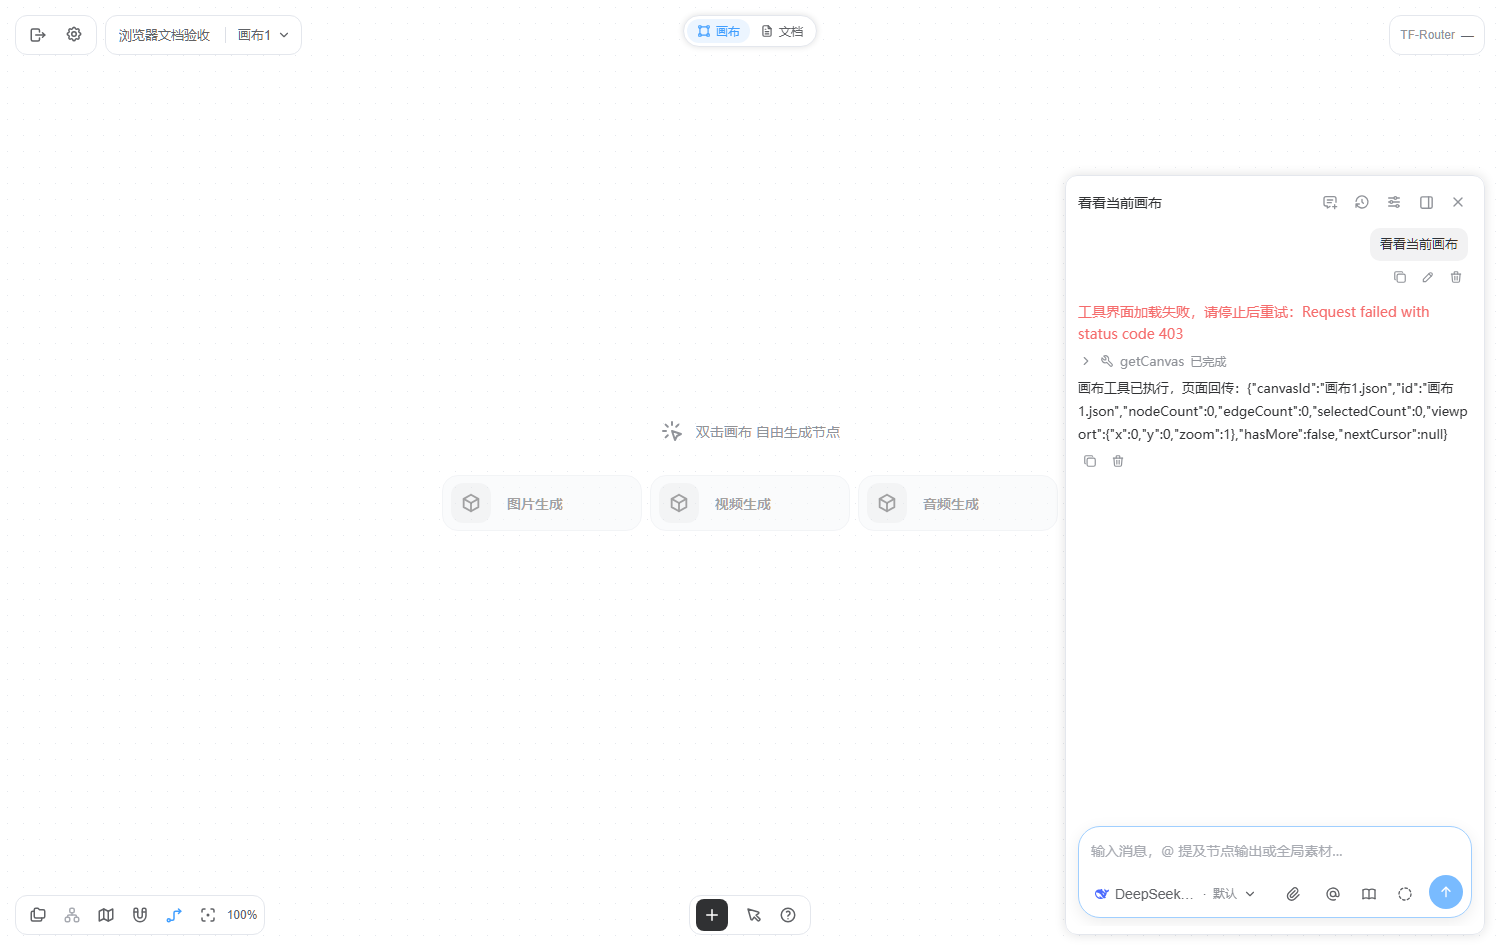
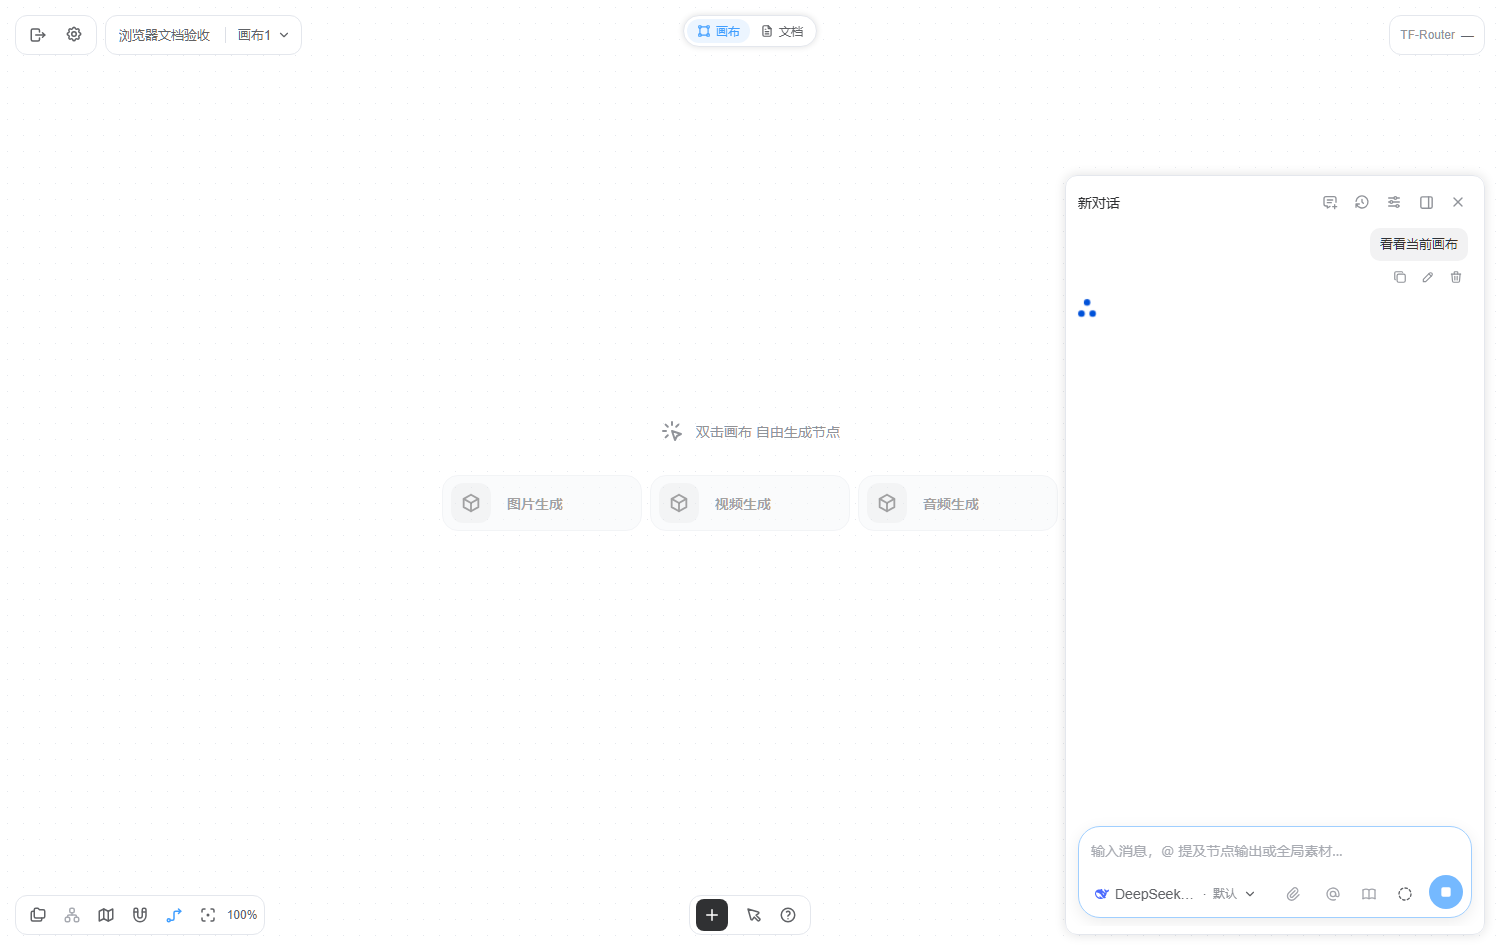
归档M3-05转码与目录实测证据

Changed region(s): [[0.7053, 0.3053, 0.9813, 0.4884], [0.736, 0.1832, 0.7667, 0.2442]]

diff --git a/docs/validation/M3_CAPABILITIES_FFMPEG.md b/docs/validation/M3_CAPABILITIES_FFMPEG.md
@@ -1,0 +1,44 @@
+# M3-05 能力目录与 FFmpeg 转码验收
+
+> 2026-10-26。范围：成员可见的能力目录（节点/工具/工具界面/技能/转码状态）与服务端 FFmpeg 受控转码（transcode/concat/extractAudio、进度、取消、下载）。H3 视频与内置节点包随本任务后续批次。仅使用合成账号、夹具项目与容器内 ffmpeg；未连接真实模型或用户存储。
+
+## 1. 结论
+
+| 项 | 结果 |
+| --- | --- |
+| 能力目录 | 通过：`nodes/get`、`tools/get`、`tools/renderers`、`agent/skills` 返回成员可读的诚实空目录，页面不再把缺项当成 403 失败 |
+| 工具界面 | 通过：`tools/renderers` 返回空列表，工具卡片改用内置样式；真实浏览器已无「工具界面加载失败」与 `Request failed with status code 403/404` 提示 |
+| 转码状态 | 通过：`capabilities/ffmpeg/status` 返回可执行性、版本、运行中任务数与 4 个固定预设 |
+| 转码执行 | 通过：6 秒 640×360 样例 → mp4-720p，SSE 收到 `progress`（含百分比）与 `done`，产物 1,105,777 字节，`ftyp isom`，经媒体接口可下载 |
+| 取消 | 通过：90 秒 720p → webm-720p 提交后 2 秒取消，流以 `error: 转码已取消` 结束，进程退出、临时目录清理 |
+| 边界 | 通过：外部路径 `/etc/passwd` 与未知预设 `4k-ultra` 均在开流前 400，不启动 ffmpeg |
+
+## 2. 实现要点
+
+- **能力目录下沉为服务端真相**：内置工具只发布 `canvasOperations` 一项，`canManage` 固定 false；节点包与工具界面没有随镜像分发时返回空列表而不是 404，页面据此降级展示。
+- **转码参数固定**：`transcode`/`concat`/`extractAudio` 只接受 `.huimeng-media/<uuid>.(mp4|mov|webm|mkv|mp3|wav|m4a|png|jpg|jpeg)` 与 4 个预设（mp4-720p、mp4-1080p、webm-720p、mp3-192k）。命令由服务端拼装，浏览器不能给出命令、滤镜或任意参数；素材先落临时目录，完成后上传项目媒体并删除临时目录。
+- **进度与取消**：`-progress pipe:1` 解析 `out_time_ms`，用 ffprobe 取时长得百分比（缺失时只报时间）；进度事件节流 500 ms。取消按 `requestId` 定向结束该进程，流以错误事件收尾而不是让客户端读到半截分块。
+- **资源限制**：单素材与总素材 2 GiB、最多 8 个素材、`-threads 2`、15 分钟超时（超时后强制终止）。
+- **架构约束**：SSE 帧序列化下沉到服务层，控制器只声明 `ResponseEntity<StreamingResponseBody>`，满足「控制器只依赖服务接口」的可执行约束。
+
+## 3. 验证证据
+
+| 层次 | 内容 | 证据 |
+| --- | --- | --- |
+| 后端 | 108 项默认测试（新增 4 项 FFmpeg 参数/预设/边界） | Linux `mvnw verify` + Spotless + JAR |
+| 前端 | 26 项测试 102 断言、类型、边界与生产构建 | `bun run check` / `bun run build` |
+| HTTP + 真实转码 | 29 项：目录为空、状态可用、上传、SSE 进度/完成、下载校验、取消、边界拒绝 | [m3-m05-ffmpeg.json](evidence/m3-m05-ffmpeg.json) |
+| 浏览器回归 | 11 项（含新增两项：无「工具界面加载失败」、无 403/404 提示），工具卡片仍正常渲染 | [m3-m04-browser.json](evidence/m3-m04-browser.json) |
+
+真实转码在 `MediaBrowserAcceptanceHarness` 容器内进行（内存对象存储 + 容器 `apt` 安装 ffmpeg 6.1.1），样例视频由 `ffmpeg -f lavfi -i testsrc2` 生成，脚本 `m3M05FfmpegCheck.py`。
+
+## 4. 未覆盖
+
+- **H3 五种视频模式**：仍需把 `h3Local3060` 的图模板与时长/分辨率参数迁入服务端，属本任务下一批次（M3-I05 保持未完成）。
+- **内置节点包分发**：`nodes/get` 目前返回空列表；把通用节点包随镜像分发并让画布实际加载仍需打包与许可核对（M3-I08）。
+- **技能包**：`agent/skills` 返回空列表，技能安装属于插件市场（M3-08）。
+- **prepare 语义**：仅返回可用性，不复刻上游浏览器侧 ffmpeg 编译/下载流程（服务端已有二进制）。
+
+## 5. 环境清理
+
+两个夹具容器、合成文本供应商、静态代理与回环转发均已停止；容器内临时视频与转码目录已删除，未写入用户存储。
